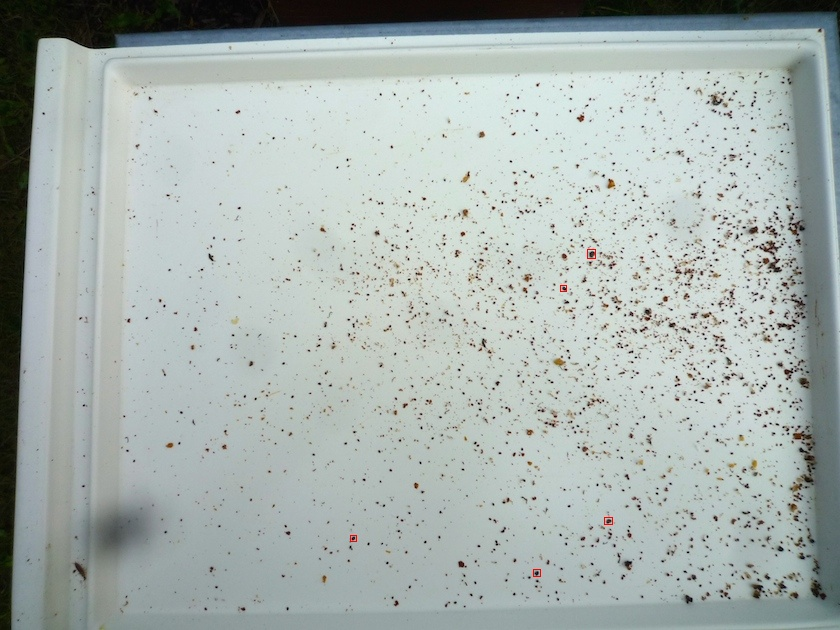
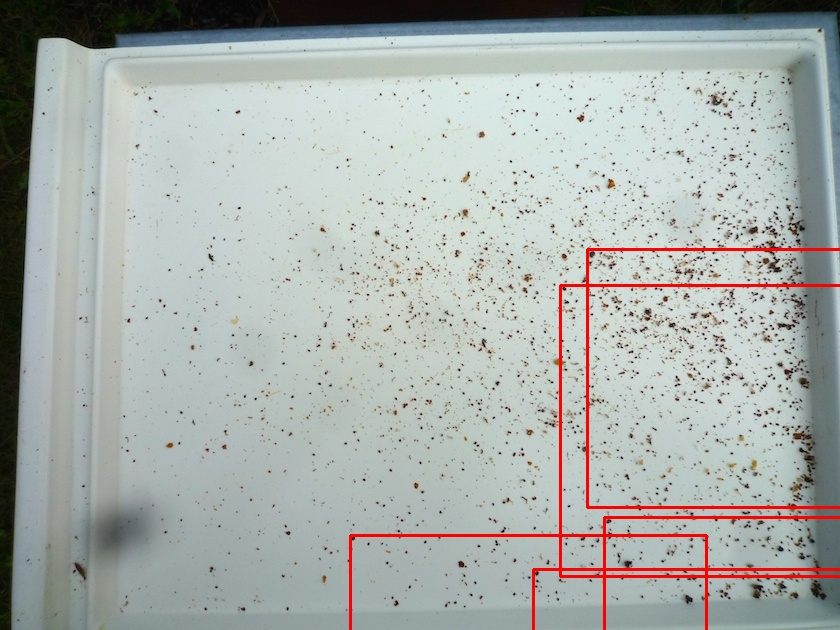
made API

Changed region(s): [[0.4024, 0.3921, 1.0, 1.0]]

diff --git a/mite.py b/mite.py
@@ -11,24 +11,21 @@ class Mite:
         Initialize a Mite object with YOLO bbox and image shape.
 
         Parameters:
-            yolo_bbox (tuple): (x_center, y_center, width, height) normalized [0, 1]
+            yolo_bbox (tuple): (x_center, y_center, width, height)
             image_shape (tuple): (height, width) of the image
             threshold (float): Variability threshold to classify as alive or dead
         """
-        self.bbox = self.get_bbox(yolo_bbox)
-        self.threshold = threshold
+        self.bbox = yolo_bbox
+        self.threshold = 0.5
         self.roi_series = []
         self.alive = True
 
-    def get_bbox(self,yolo_bbox):
-        x1, y1, x2, y2 = yolo_bbox
-        x, y = int(x1), int(y1)
-        w, h = int(x2 - x1), int(y2 - y1)
-        return (x, y, w, h)
+
+   
   
     def add_image(self, image):
-        x, y, w, h = self.bbox
-        roi = image[y:y+h, x:x+w]
+        x1, y1, x2, y2  = self.bbox
+        roi = image[y1:y2, x1:x2]
         self.roi_series.append(roi)
 
     def compute_variability(self, method='std'):
@@ -59,8 +56,8 @@ class Mite:
         return np.mean(variability)
 
     def isAlive(self, method='std'):
-        variability_score = self.compute_variability(method=method)
-        self.alive = variability_score > self.threshold
+        #variability_score = self.compute_variability(method=method)
+        #self.alive = variability_score > self.threshold
         return self.alive
 
 
@@ -68,15 +65,14 @@ class Mite:
 # get mites from bbox text files per image
 def get_mites_from_bboxes(result):
     mites = []
-    boxes = result.boxes.xyxy.cpu().numpy()  # numpy array
-
+    boxes = result.boxes.xyxy.cpu().numpy().astype(int)  # numpy array
     for box in boxes:
         mites.append(Mite(box))
     
     return mites
 
 
-def draw_mite_boxes(image_path, mites, color=(0, 255, 0), thickness=2, show=True, save_path=None):
+def draw_mite_boxes(image, mites, thickness=2, show=True, save_path=None):
     """
     Draw bounding boxes of mites on the image.
 
@@ -91,22 +87,17 @@ def draw_mite_boxes(image_path, mites, color=(0, 255, 0), thickness=2, show=True
     Returns:
         image_with_boxes: The image with bounding boxes drawn.
     """
-    image = cv2.imread(image_path)
-    if image is None:
-        raise FileNotFoundError(f"Image not found: {image_path}")
 
     for mite in mites:
-        x, y, w, h = mite.bbox
-        top_left = (x, y)
-        bottom_right = (x + w, y + h)
-        cv2.rectangle(image, top_left, bottom_right, color, thickness)
+        x1, y1, x2, y2 = mite.bbox
+        if mite.isAlive():
+            color = (0, 255, 0)
+        else:
+            color = (0, 0, 255)
+       
+        cv2.rectangle(image, (x1,y1), (x2,y2), color, thickness)
 
     if save_path:
         cv2.imwrite(save_path, image)
-
-    if show:
-        cv2.imshow("Mites with Boxes", image)
-        cv2.waitKey(0)
-        cv2.destroyAllWindows()
 
     return image

diff --git a/detector.py b/detector.py
@@ -6,33 +6,24 @@ class Detector:
     def __init__(self):
         self.model_path = "varrodetector/model/weights/best.pt"
         self.model = YOLO(self.model_path, verbose=False)
-        self.results = None
+        self.result = None
 
-    def run_detection(self, image_folder=None):
-        if image_folder is None:
-            raise ValueError("Please provide an image folder path.")
+    def run_detection(self, image):
+        # Run the model on a single image
+        result = self.model(
+            image,
+            imgsz=6016, #was 6012
+            max_det=2000,
+            conf=0.7,
+            iou=0.5,
+            save=False,
+            show_labels=False,
+            line_width=2,
+            save_txt=False,
+            save_conf=False,
+            verbose=False,
+            batch=1,
+            exist_ok=True,
+        )
 
-        output_folder = "results"
-
-        for filename in os.listdir(image_folder):
-            if filename.lower().endswith(('.jpg', '.jpeg', '.png', '.dng')):
-                image_path = os.path.join(image_folder, filename)
-
-                self.results = self.model(
-                    image_path,
-                    imgsz=6016,  # or (6016, 6016)
-                    max_det=2000,
-                    conf=0.7,
-                    iou=0.5,
-                    save=True,
-                    show_labels=False,
-                    line_width=2,
-                    save_txt=False,
-                    save_conf=False,
-                    project=os.path.dirname(output_folder),
-                    name=os.path.basename(output_folder),
-                    verbose=False,
-                    batch=1,
-                    exist_ok=True,
-                )
-    
+        self.result = result[0] # only for one image

diff --git a/main.py b/main.py
@@ -1,21 +1,40 @@
 from detector import Detector
 from mite import  get_mites_from_bboxes, draw_mite_boxes, Mite
+import gradio as gr
 import os
 import cv2
 
-#run the detector:
-detector = Detector()
-detector.run_detection(image_folder="Single_image")
-mites = []
+
+def predict(image):
+    detector = Detector()
+    # image: numpy array (H, W, 3), RGB from Gradio upload
+   
+
+    detector.run_detection(image)
 
 
-#extract the bounding boxes from the results
-for img in detector.results:
-    mites = get_mites_from_bboxes(img)
-
-# Suppose you have a list of Mite objects called mites_list
-image_path = "Single_image/test1.jpg"
-draw_mite_boxes(image_path, mites, color=(0, 0, 255), thickness=1, show=True, save_path="output.jpg")
+    # get the mites from the image:
+    mites = get_mites_from_bboxes(detector.result)
+    print("got mites:", len(mites))
 
 
+   
 
+    #add first frame to each mite ROI:
+    for mite in mites:
+        mite.add_image(image)
+
+
+     # draw the bounding boxes on the image:
+    return draw_mite_boxes(image, mites, thickness=2)
+
+
+iface = gr.Interface(
+    fn=predict,
+    inputs=gr.Image(type="numpy"),
+    outputs=gr.Image(type="numpy"),
+    title="Varroa Mite Detector",
+    description="Upload an image to detect varroa mites using YOLOv8."
+)
+
+iface.launch()
